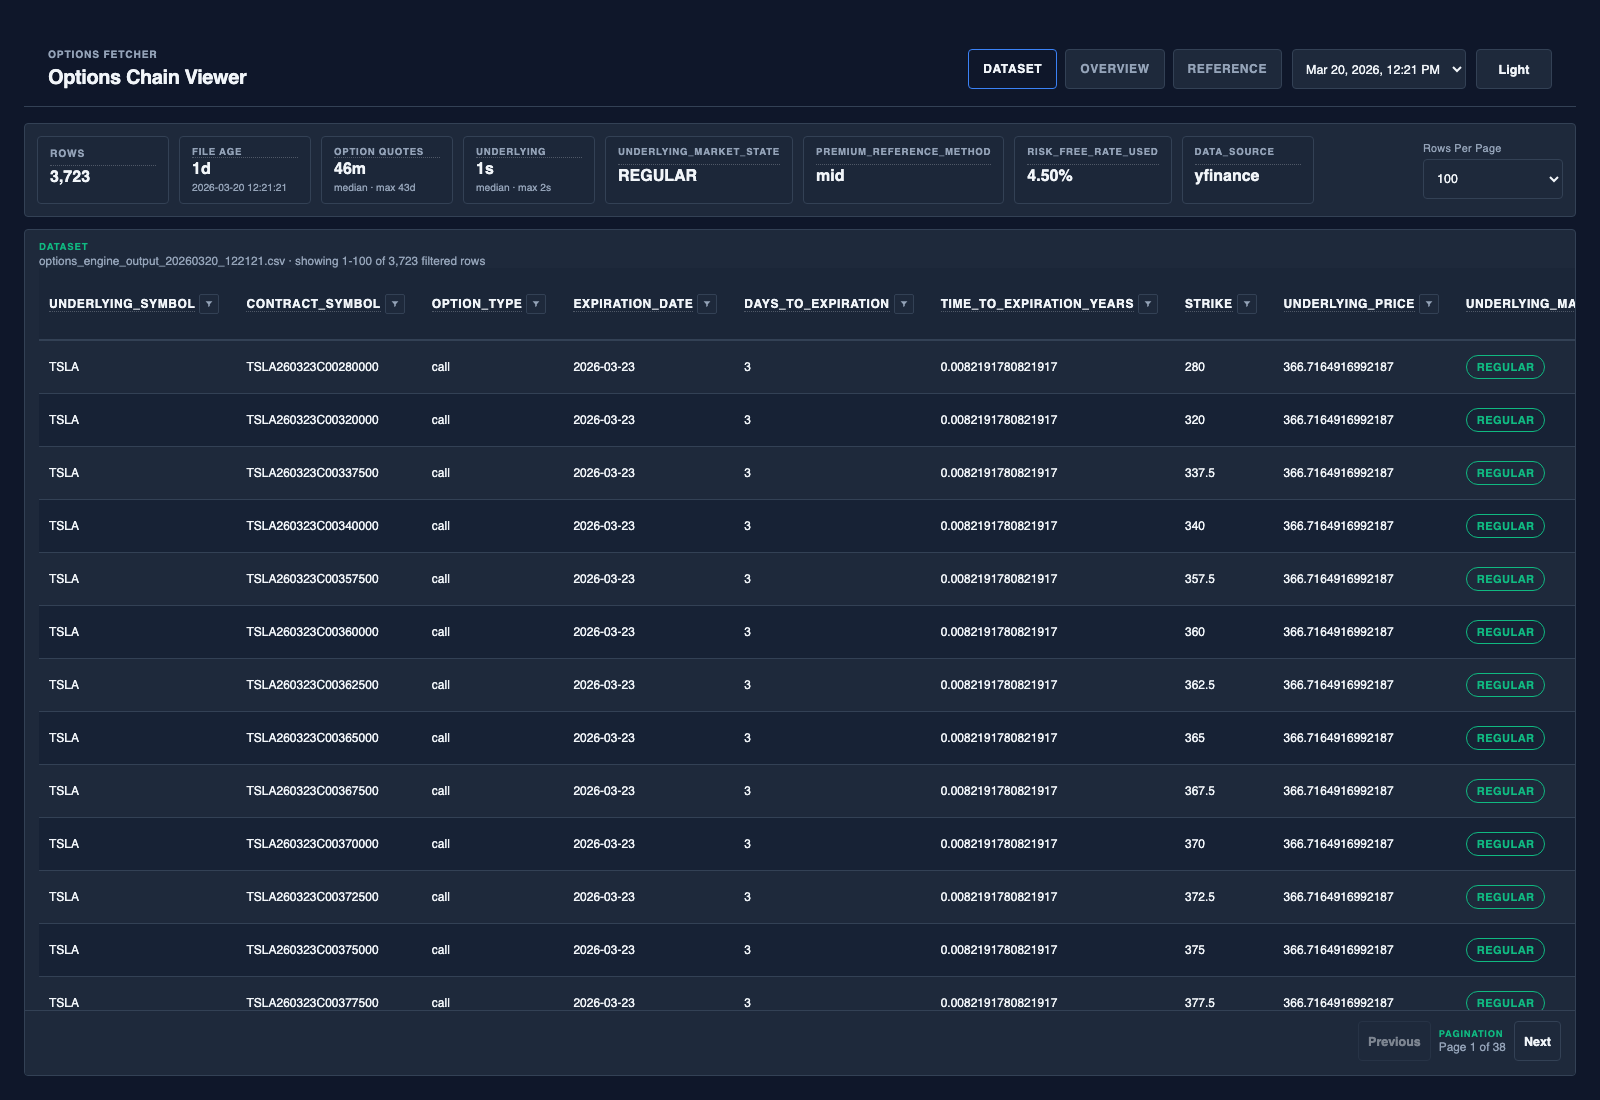
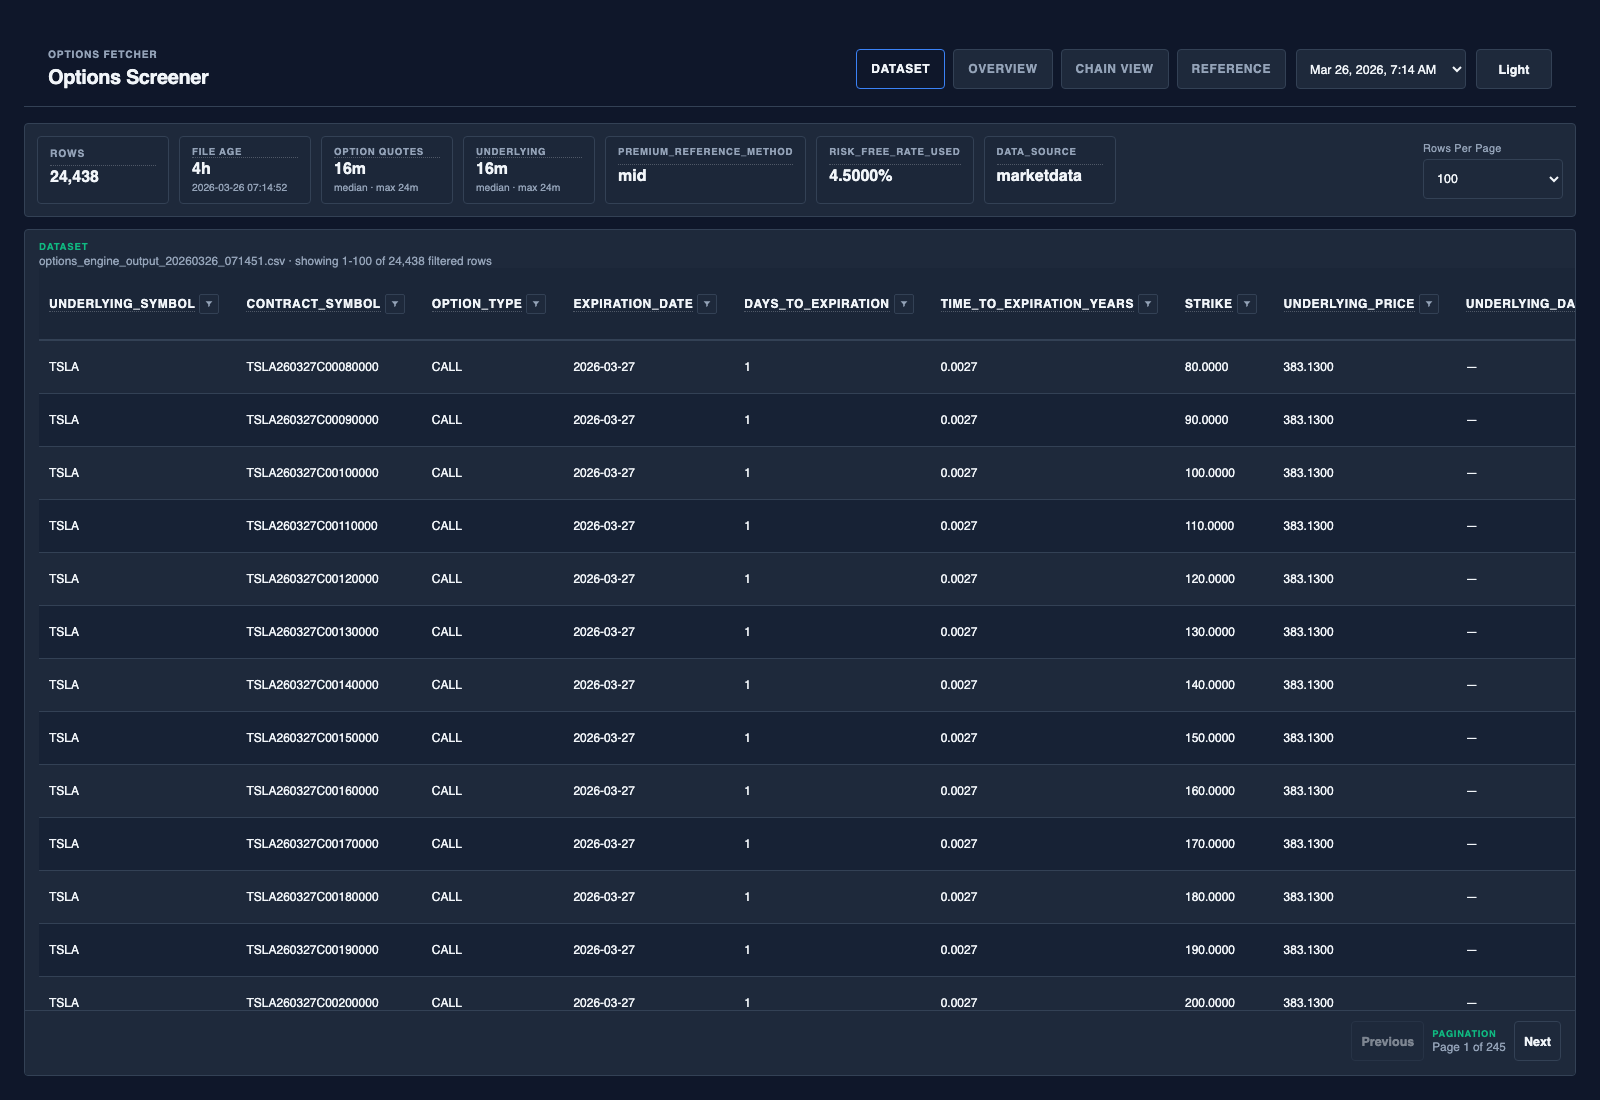
Refresh docs and screenshot

diff --git a/docs/USER_GUIDE.md b/docs/USER_GUIDE.md
@@ -34,11 +34,7 @@ Then open `http://127.0.0.1:8000` in your browser.
 
 ## Running
 
-Fetch data from the repository root:
-
-```bash
-python fetcher.py
-```
+Fetch data from the repository root with `python fetcher.py`.
 
 Run the local viewer:
 
@@ -228,9 +224,37 @@ These settings are only used by the matching provider.
 - Raise or lower `[providers.marketdata].max_retries` when you want a different tolerance for rate-limit retries.
 - Set `[providers.marketdata].request_interval_seconds` above `0.0` only when you want additional client-side pacing on top of the provider's normal serial request flow.
 
+## Filtering
+
+The shared filters are a first-pass dataset gate that runs before ranking and overview heuristics.
+
+Objective:
+
+- The filtering layer exists to trim the downloaded chain into a more tradable, reviewable dataset.
+- Its job is to remove contracts that are clearly too stale, too illiquid, too far from spot, or too weakly quoted to be useful for practical short-premium screening.
+- It is not intended to define the strategy by itself; it is an executability and relevance gate ahead of scoring.
+
+How to interpret it:
+
+- Tightening the filters makes the dataset narrower and more execution-focused, usually at the cost of excluding speculative or thinly traded contracts.
+- Loosening the filters broadens coverage, but it also increases the chance that high-ranking rows are driven by weak quotes, sparse volume, or far-from-spot strikes.
+- `filters_enable = false` is mainly useful when you want to inspect the raw normalized rows while still computing the same metrics and quality flags.
+
 ## Scoring
 
 `option_score` is a shared derived field in the `0-100` range. It is intended for relative ranking within one run, not as an absolute trading recommendation.
+
+Objective:
+
+- The score exists to rank contracts by overall short-premium attractiveness after normalization, so the top of the dataset favors contracts that look richer, cleaner, and more executable rather than merely highest premium.
+- It is meant to compress several competing concerns into one sortable signal: income quality, liquidity and spread quality, practical time-to-expiration, and side-aware risk posture.
+- It is not meant to predict market direction, replace discretionary thesis work, or tell you whether a contract is universally "good" outside the current run and current filter set.
+
+How to interpret it:
+
+- Higher `option_score` means the row looks stronger on a combined basis, not just on one metric like raw ROM or premium.
+- A lower score does not necessarily mean the contract is unusable; it usually means some combination of spread quality, strike positioning, DTE profile, or risk efficiency is weaker than the higher-ranked alternatives in the same export.
+- `final_score` is the better summary value when you want the score after the row-level validation adjustment has been applied.
 
 Current scoring logic:
 

diff --git a/README.md b/README.md
@@ -1,6 +1,8 @@
 # opx
 
-`opx` downloads near-term option chains, enriches them with pricing and screening metrics, writes a timestamped CSV, and serves a local browser UI for inspection.
+`opx` downloads near-term option chains, enriches them with pricing and screening metrics, writes a timestamped CSV, and serves the local Options Screener UI for inspection.
+
+Its objective is to produce a cleaner, more executable options dataset that can be reviewed directly or fed into downstream tools that make decisions from the data, such as a trading system, portfolio workflow, or other automation layer. `opx` is the data and screening layer, not the decision engine itself.
 
 ## Quick Start
 
@@ -15,7 +17,7 @@ python viewer.py
 
 Then open `http://127.0.0.1:8000` in your browser.
 
-![opx viewer](docs/images/viewer-option-chain.png)
+![Options Screener](docs/images/viewer-option-chain.png)
 
 ## What You Get
 
@@ -24,7 +26,8 @@ Then open `http://127.0.0.1:8000` in your browser.
 - Limits strikes to a configurable band around spot
 - Computes Greeks, expected move, ROM-style metrics, configurable option scoring, and volatility context
 - Writes a timestamped CSV plus an append-only run log
-- Includes a local browser for exploring the output interactively, including dataset inspection, per-ticker overview cards, and chain visualizations with chart tooltips and click-through row details
+- Includes a local browser for exploring the output interactively, including dataset inspection, per-ticker overview cards, `Most Profitable`, `Moderate Risk`, `High Conviction Call`, and `High Conviction Put` highlights, plus chain visualizations with chart tooltips and click-through row details
+- Produces normalized output that can feed other tools and systems which apply their own decision logic on top of the exported data
 
 Generated files are standardized under:
 
@@ -35,7 +38,7 @@ Generated files are standardized under:
 ## Documentation
 
 - User guide: [docs/USER_GUIDE.md](docs/USER_GUIDE.md)
-- CSV field reference: [docs/FIELD_REFERENCE.md](docs/FIELD_REFERENCE.md)
+- Field reference: [docs/FIELD_REFERENCE.md](docs/FIELD_REFERENCE.md)
 - Development guide: [docs/DEVELOPMENT.md](docs/DEVELOPMENT.md)
 - Project spec: [docs/PROJECT_SPEC.md](docs/PROJECT_SPEC.md)
 - Design spec: [docs/DESIGN_SPEC.md](docs/DESIGN_SPEC.md)

diff --git a/docs/DEVELOPMENT.md b/docs/DEVELOPMENT.md
@@ -133,6 +133,44 @@ Rules to keep the provider layer stable:
 - keep debug payload dumps representative of the exact provider response shape so mapping regressions can be audited later
 - update both [FIELD_REFERENCE.md](FIELD_REFERENCE.md) and [PROJECT_SPEC.md](PROJECT_SPEC.md) when a provider mapping or dependency changes
 
+## Debugging Config
+
+The runtime exposes a small debugging config surface through `~/.config/opx/config.toml`.
+
+Objective:
+
+- The debugging config exists to make provider and normalization issues inspectable without changing code or adding ad hoc print statements.
+- Its main purpose is to answer questions like "did the provider actually send this field?" and "did the app drop or transform it later?"
+- It should help you debug missing values, stale timestamps, quote-shape regressions, and provider mapping changes while keeping the canonical CSV schema clean.
+
+Current debugging settings:
+
+- `debug_dump_provider_payload = true|false`
+  - when enabled, the app writes raw provider payloads to disk before normalization
+  - use this when a canonical field is unexpectedly blank, a provider response shape appears to have changed, or a mapping bug is suspected
+- `debug_dump_dir = "debug"`
+  - controls where raw provider payload files are written
+  - use a custom path when you want to isolate one investigation from older dumps
+- `enable_validation = true|false`
+  - controls whether shared row-level and file-level validation runs
+  - keep this enabled by default; disable it only when you need to inspect raw normalized output without validation noise
+
+Example debugging config:
+
+```toml
+[settings]
+enable_validation = true
+debug_dump_provider_payload = true
+debug_dump_dir = "debug/provider-check"
+```
+
+How to use it:
+
+- turn on `debug_dump_provider_payload` before reproducing the issue
+- run `python fetcher.py`
+- inspect the newest files under `debug_dump_dir` and compare them with the exported CSV fields
+- turn the dump back off after the investigation so normal runs do not accumulate unnecessary payload files
+
 ## Shared Metrics and Viewer Scope
 
 Shared metrics should stay provider-agnostic once data has been normalized into the canonical schema.

diff --git a/docs/PROJECT_SPEC.md b/docs/PROJECT_SPEC.md
@@ -100,6 +100,7 @@ Defaults:
 - if the config file is missing, the app uses built-in defaults
 - the default provider is `yfinance`
 - shared filter config uses `settings.filters_*` keys
+- the objective of shared filtering is to gate the dataset for baseline tradability and relevance before ranking, not to act as a standalone trade thesis
 - current built-in filter defaults include:
   - `filters_max_spread_pct_of_mid = 0.25`
   - `filters_max_strike_distance_pct = 0.30`
@@ -277,10 +278,12 @@ The product includes a shared provider-agnostic `option_score` field.
 Requirements:
 
 - `option_score` is a canonical derived field in the `0-100` range
+- its objective is to rank contracts by combined short-premium attractiveness rather than by raw premium or ROM alone
 - it is computed from shared normalized fields only, not provider-specific scratch fields
 - the current score combines IV-adjusted income quality, spread execution quality, DTE execution quality, delta-only risk, and theta efficiency
 - `premium_per_day` is derived from a prompt-aligned `expected_fill_price`
 - `probability_itm` is validation-only and should not directly drive row ranking
+- it should help users surface richer, cleaner, and more executable candidates without pretending to be a standalone trade recommendation
 - score weights are configurable through runtime config so tuning does not require code changes
 - the configured weights must remain non-negative and sum to a positive total; otherwise defaults are used
 - score output is visible both in the exported CSV and in the local viewer

diff --git a/docs/FIELD_REFERENCE.md b/docs/FIELD_REFERENCE.md
@@ -1,4 +1,4 @@
-# CSV Field Reference
+# Field Reference
 
 Schema note: the export is pinned to the canonical column set documented here. Provider-specific scratch fields or debug fields should not expand the CSV schema unless the spec is updated deliberately.
 
